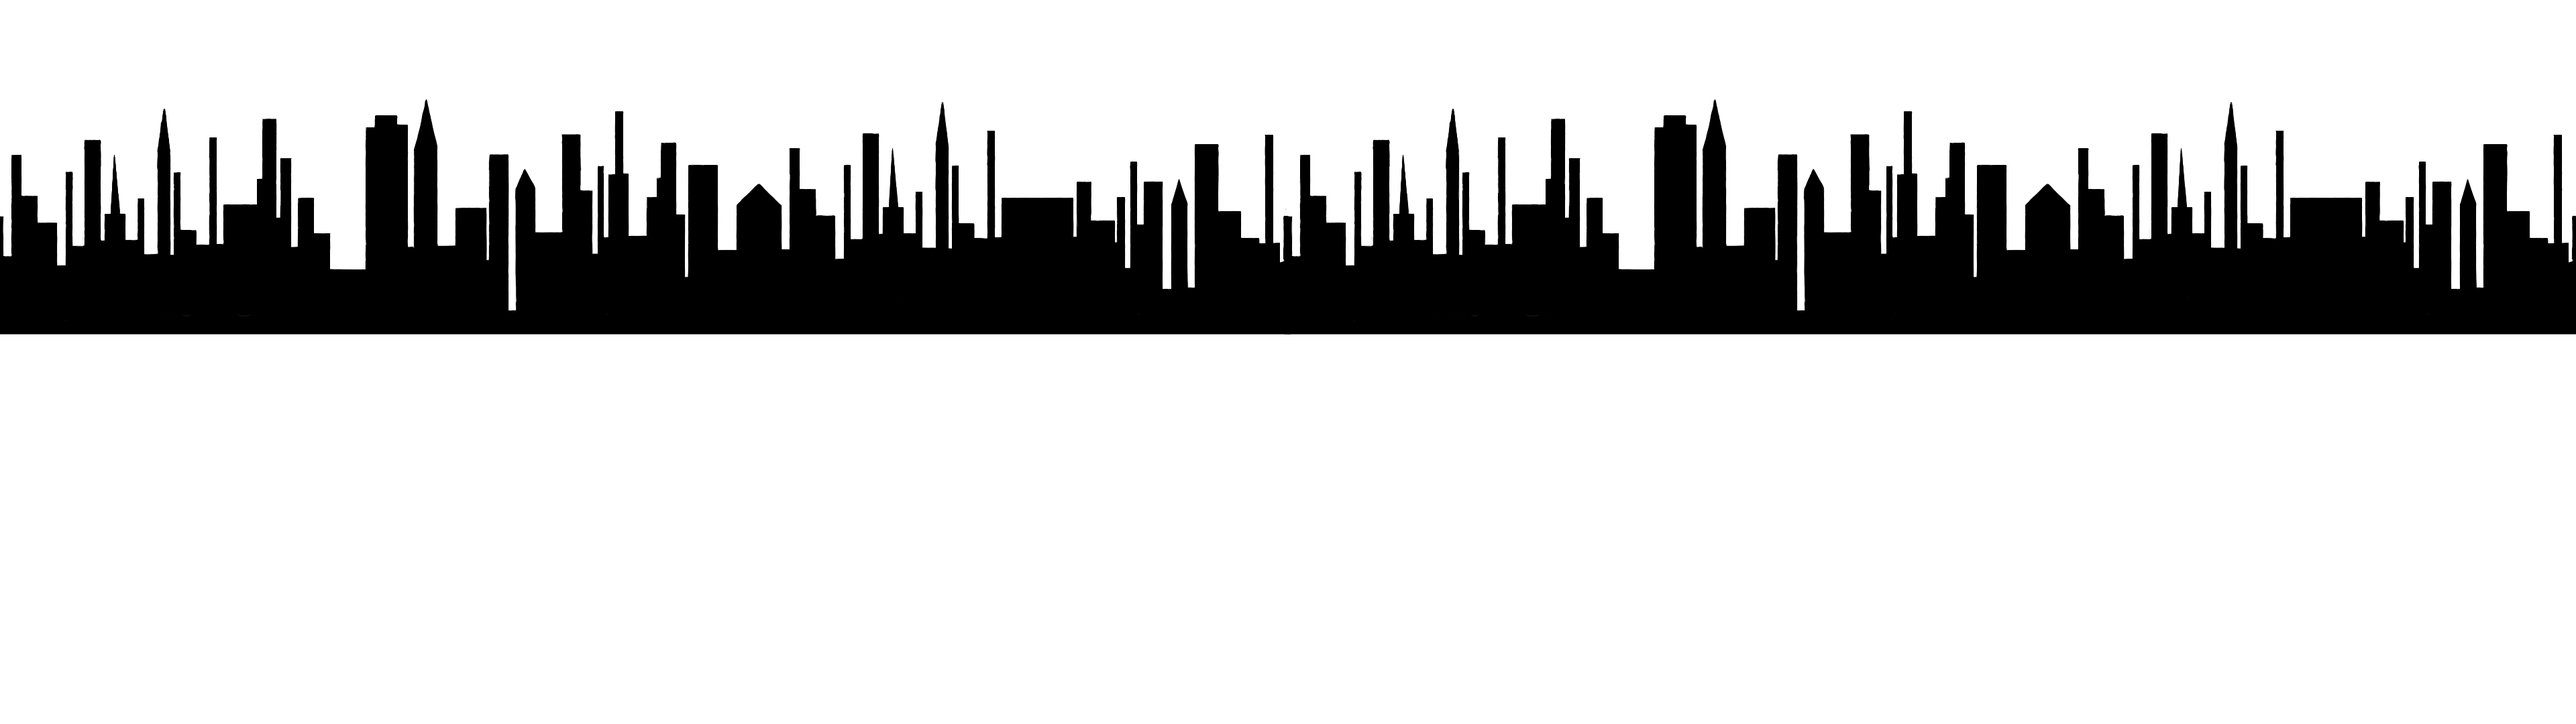
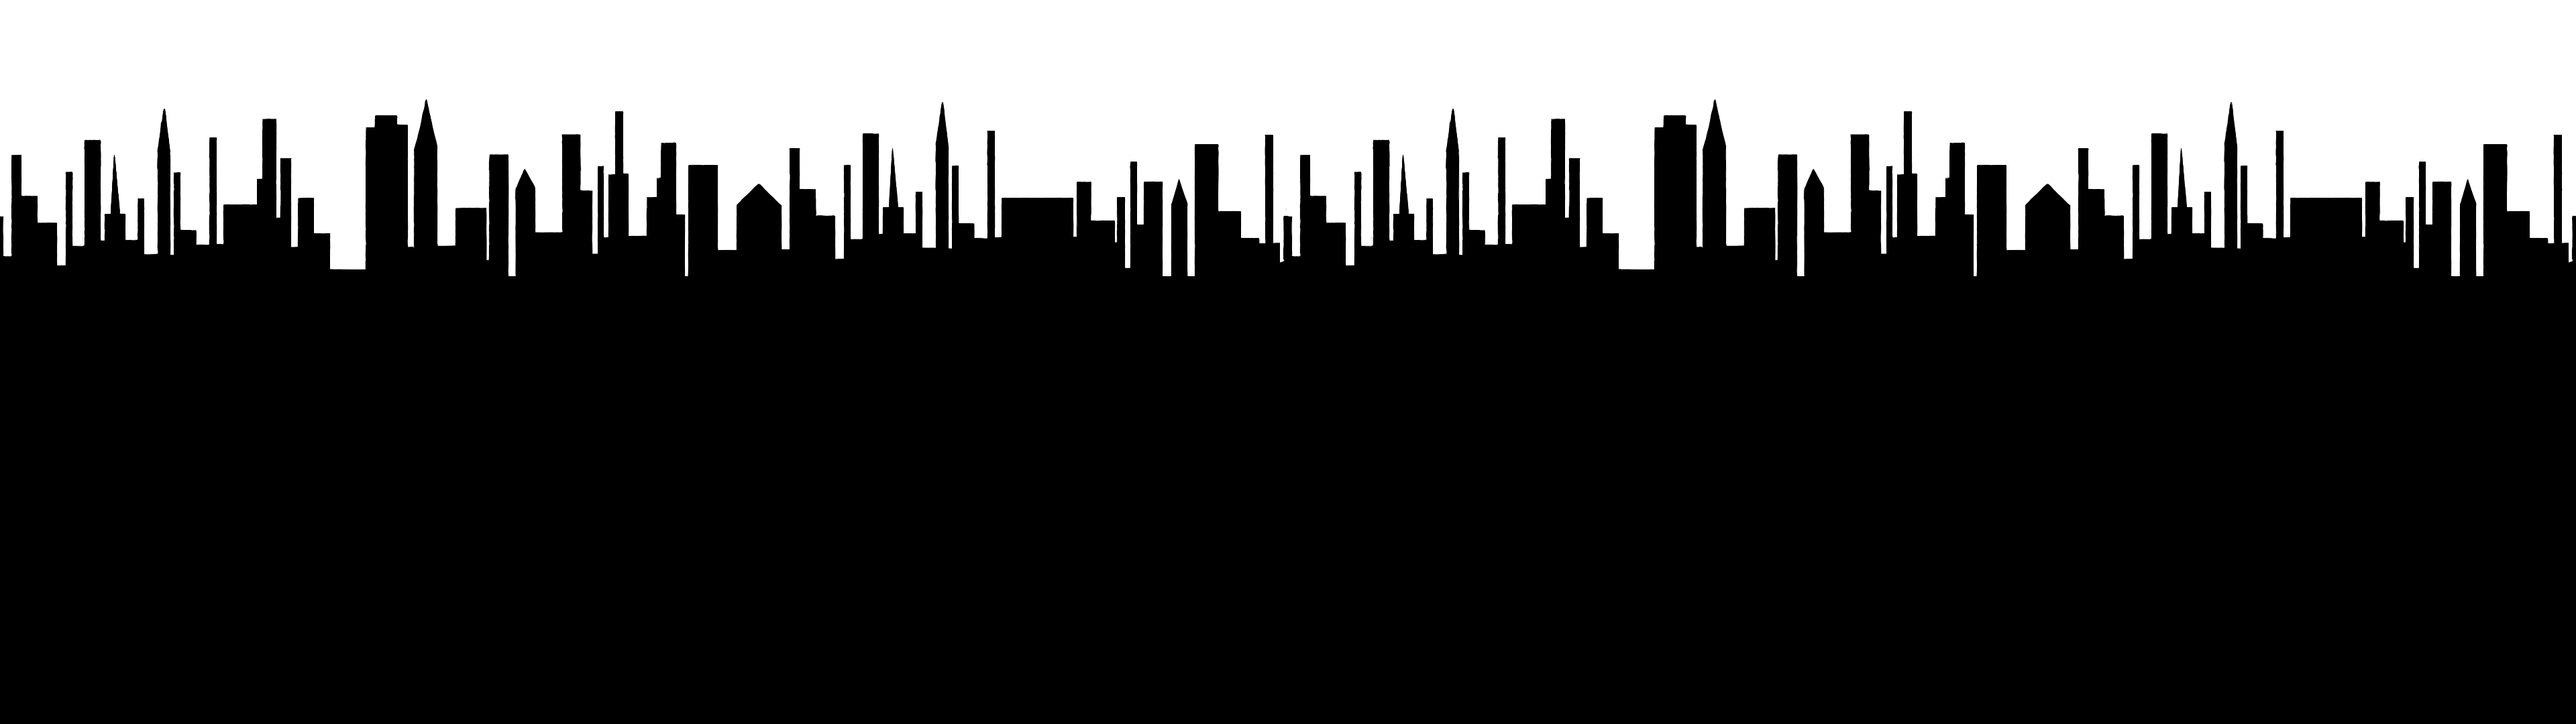
fix images, use actual zombie horde

diff --git a/public/js/directives/game.js b/public/js/directives/game.js
@@ -16,6 +16,7 @@ angular.module('gameApp').directive('game',
        * Get background elements
        */
 
+      //var hoarde = elm.find('img')[0];
       var background = elm.find('img')[1];
       var background2 = elm.find('img')[2];
 
@@ -184,6 +185,13 @@ angular.module('gameApp').directive('game',
         projectedUpperLeft = Math.max(realCenterX - canvas.width/2, 0);
         mapCanvas.style.left = '-' + projectedUpperLeft + 'px';
 
+        /*
+        hoarde.style.left = +
+          ((realCenterX < canvas.width/2 ?
+            model.zombieWall
+            : canvas.width/2 - realCenterX + model.zombieWall) - 1920) + 'px';
+        */
+
         background.style.left = '-' + Math.floor(projectedUpperLeft/3)%1920 + 'px';
         background2.style.left = '-' + Math.floor(projectedUpperLeft/2)%1920 + 'px';
 
@@ -237,12 +245,18 @@ angular.module('gameApp').directive('game',
         }
 
         //draw zombie hoard
-        context.fillStyle = "#000";
-        context.fillRect(0, 0,
-          realCenterX < canvas.width/2 ?
+        
+        
+        context.drawImage(imageLoader.get('zombie-horde'),
+          0, 0,
+          1920, 1080,
+          (realCenterX < canvas.width/2 ?
             model.zombieWall
-            : canvas.width/2 - realCenterX + model.zombieWall,
-          canvas.height);
+            : canvas.width/2 - realCenterX + model.zombieWall) - 1874,
+          0,
+          1920,
+          1080);
+
 	
         //draw zombies
         model.zombies.forEach(function (zombie) {

diff --git a/public/css/app.css b/public/css/app.css
@@ -55,6 +55,16 @@ game .background {
   /*background-color: rgb(128,128,128);*/
 }
 
+game .horde {
+  position: absolute;
+  /* z-index: -2; */
+  max-width: none;
+  
+  -webkit-transform: translateZ(0);
+
+  /*background-color: rgb(128,128,128);*/
+}
+
 restart-dialog {
   display: block;
   position: fixed;
@@ -71,7 +81,8 @@ restart-dialog {
   padding: 50px;
   margin: 50px;
 
-  background-color: #fff; /* fallback */
+  /* fallback */
+  /* background-color: #fff; */
   background-color: rgba(255,255,255,0.8);
 }
 

diff --git a/states/game-state.js b/states/game-state.js
@@ -17,7 +17,7 @@ var GameState = module.exports = function (config) {
   this.maxPlayers = 4;
   this.numberOfPlayers = 0;
 
-  this.maxLevel = 2;
+  this.maxLevel = 5;
   this.level = 1;
 
   this.tries = 1;
@@ -164,7 +164,7 @@ GameState.prototype.playAgain = function () {
 };
 
 GameState.prototype.nextLevel = function () {
-  this.score += Math.ceil(1000 / Math.sqrt(this.tries));
+  this.score += Math.ceil(1000000 / Math.sqrt(this.tries) * Math.sqrt(this.model.timer));
   this.tries = 1;
   this.level += 1;
 

diff --git a/public/js/services/data-loader.js b/public/js/services/data-loader.js
@@ -7,6 +7,9 @@ angular.module('gameApp').factory('dataLoader', function ($http) {
     '/json/sprites.json',
     '/json/levels/level-1.json',
     '/json/levels/level-2.json',
+    '/json/levels/level-3.json',
+    '/json/levels/level-4.json',
+    '/json/levels/level-5.json',
     '/json/levels/tile-types.json'
   ];
   var toLoad = resources.length;
